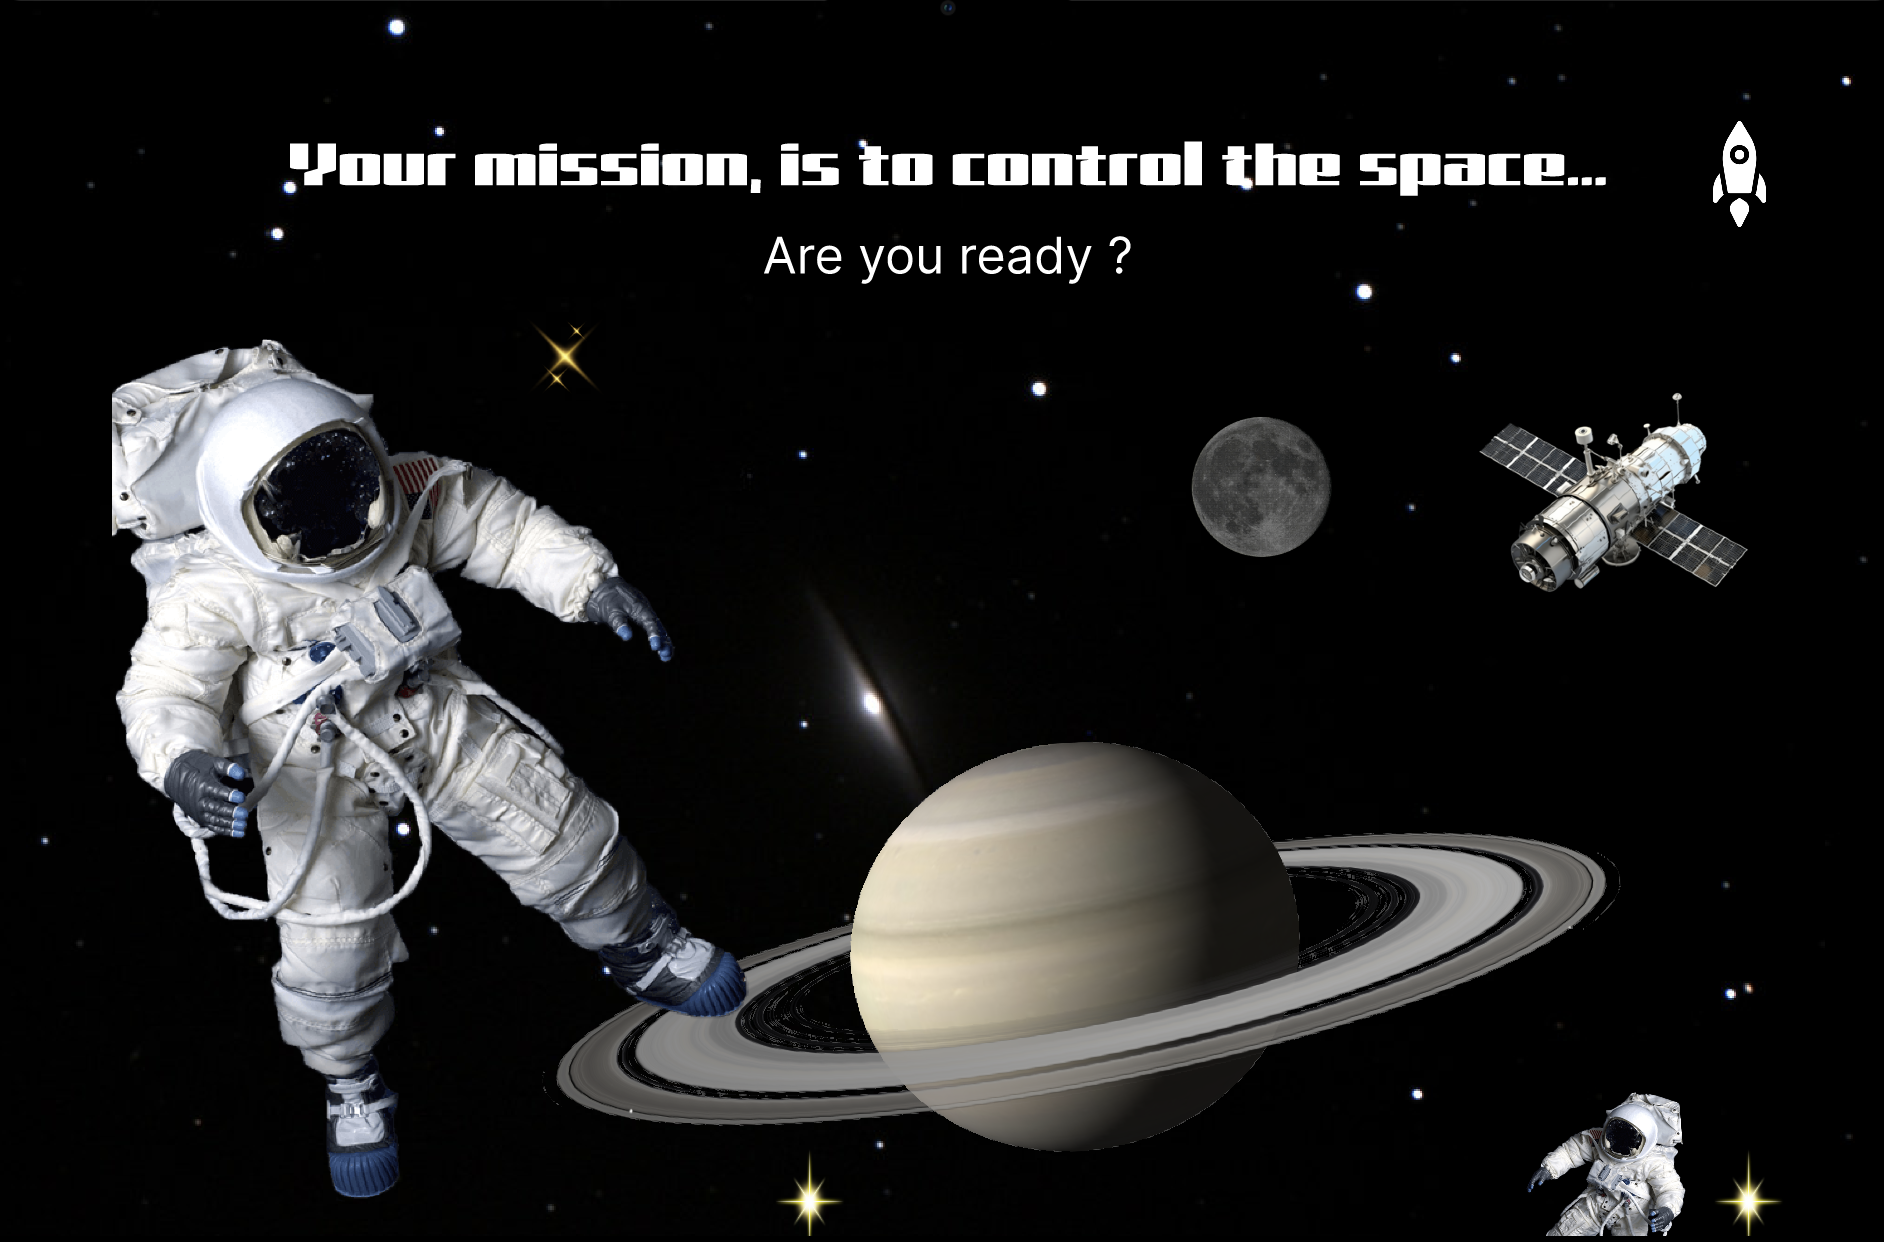
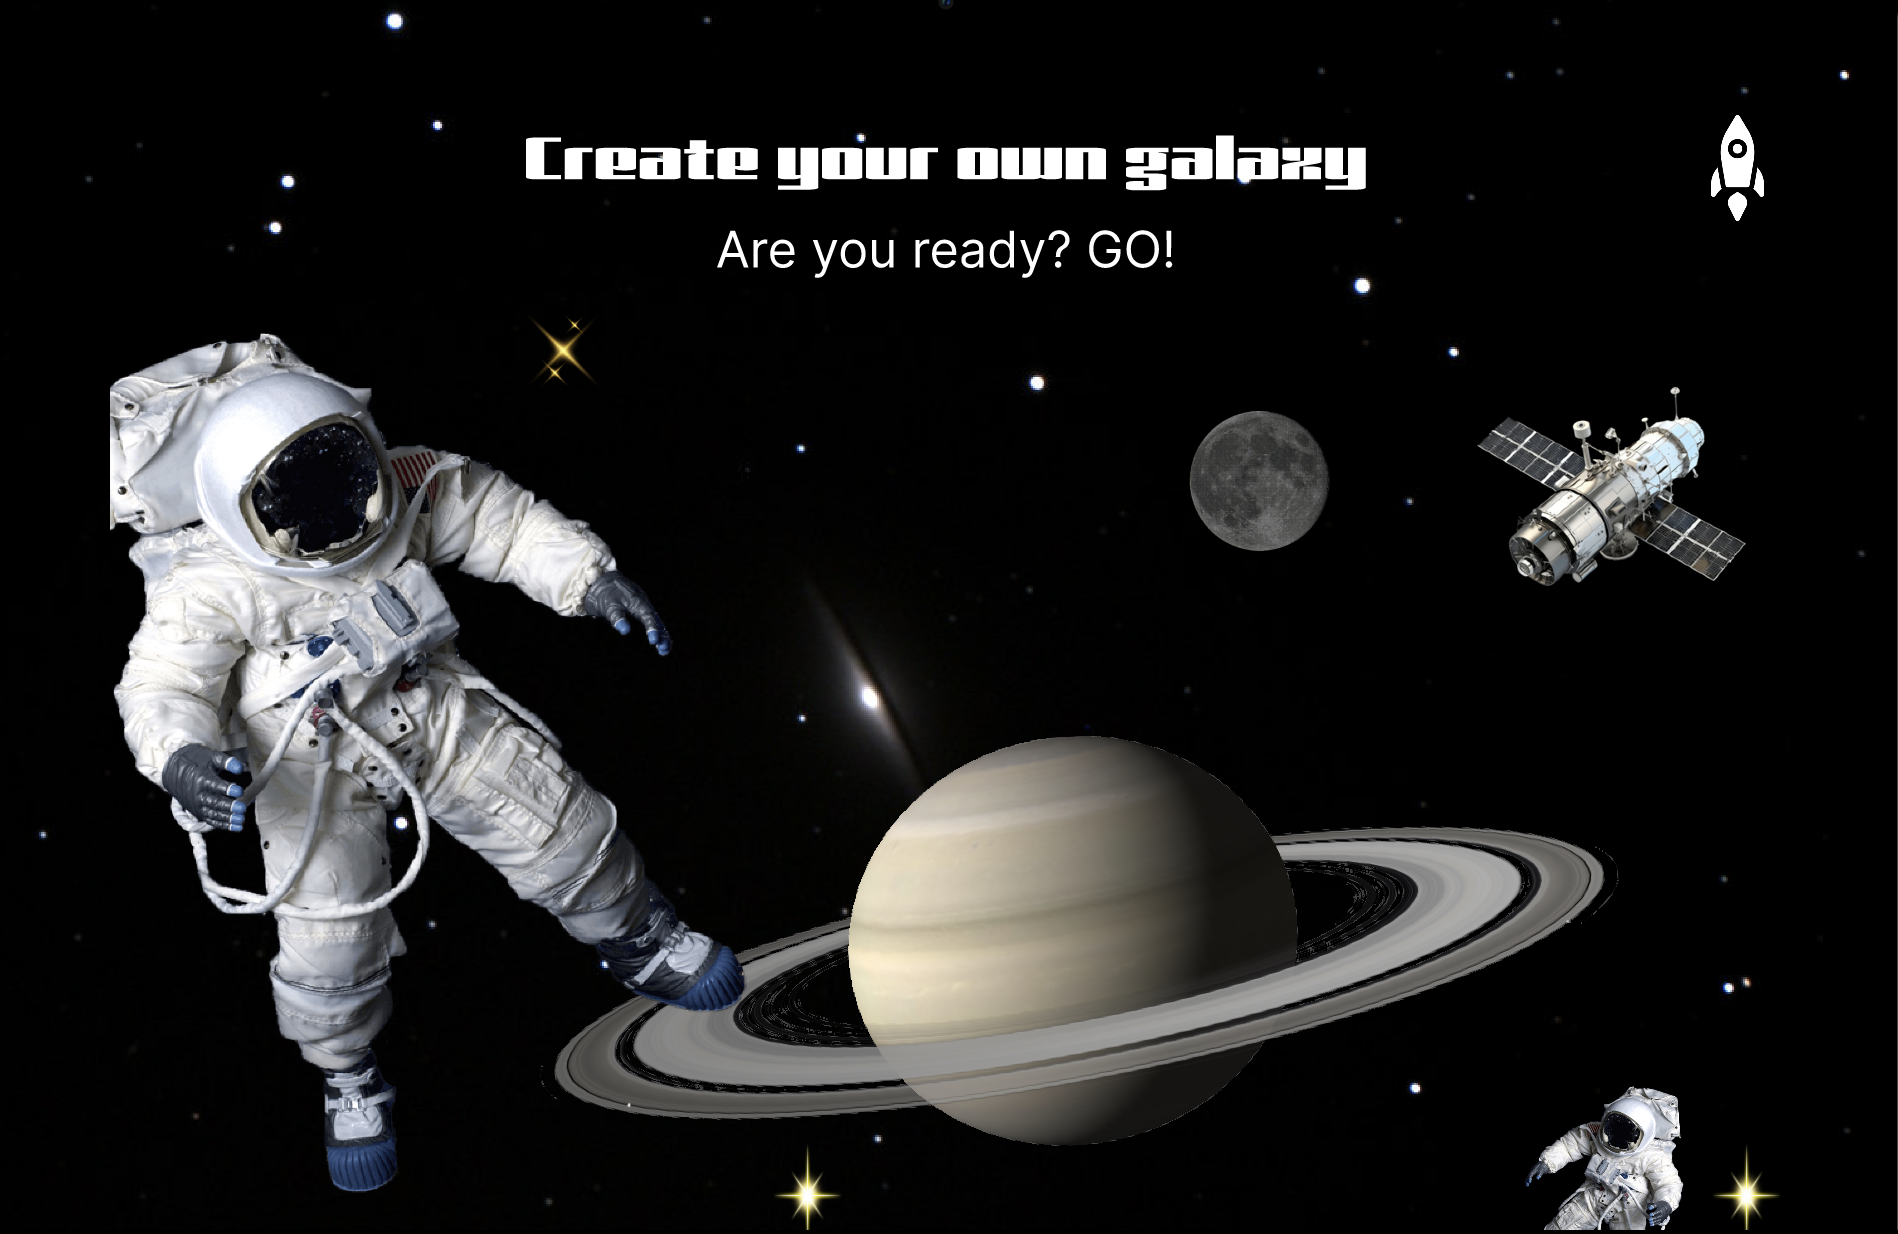
read-me checking

diff --git a/index.html b/index.html
@@ -76,7 +76,7 @@
             });
 
             // Initialisation de l'animation de texte
-            const text = "Create your own galaxy...|ARE YOU READY? GO !";
+            const text = "Create your own galaxy...|ARE YOU READY? GO!";
             typeWriter("output", text);
         });
 

diff --git a/script.js b/script.js
@@ -1,5 +1,5 @@
 // Texte à animer
-const text = "Create your own galaxy...|ARE YOU READY? GO !";
+const text = "Create your own galaxy...|ARE YOU READY? GO!";
 
 // Vitesse de l'animation
 const speed = {

diff --git a/README.md b/README.md
@@ -6,7 +6,7 @@ Ce projet vise à créer un **expérience interactive et immersive** basée sur 
 Les utilisateurs peuvent glisser et déposer des éléments tels que des planètes, des étoiles, des astronautes et d'autres objets spatiaux, tout en profitant d'une ambiance sonore immersive.
 L’interface comprend des animations dynamiques et une typographie originale pour renforcer l’atmosphère du site web.
 
-![Prototype FIGMA](images/Prototype%20FIGMA.png)
+![Prototype FIGMA](Images/Prototype%20FIGMA.png)
 
 ## ✨ Fonctionnalités
 
